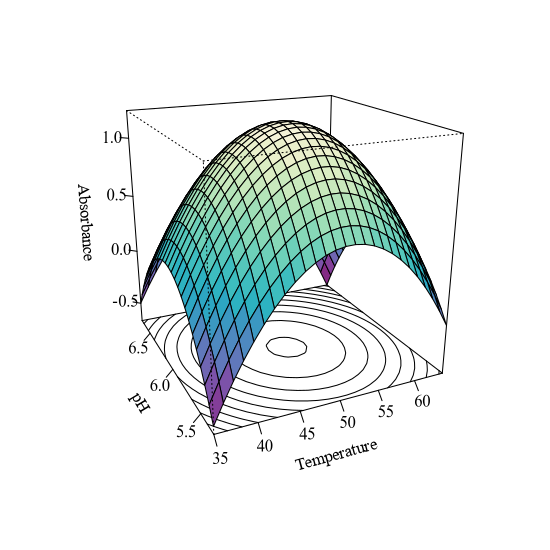
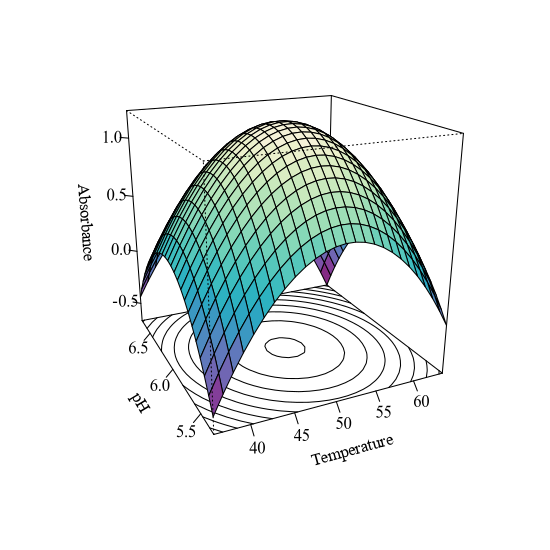
ud

Changed region(s): [[0.2473, 0.2164, 0.8036, 0.8655]]

diff --git a/README.md b/README.md
@@ -2,7 +2,6 @@
 
 to reproduce this work
 
-- Clone the repo with
-git clone https://github.com/Ngyein-Min-Zaw/AMH.git
+- Clone the repo with "git clone https://github.com/Ngyein-Min-Zaw/AMH.git"
 - Open the .Rproj file in RStudio (if present)
 - Run
